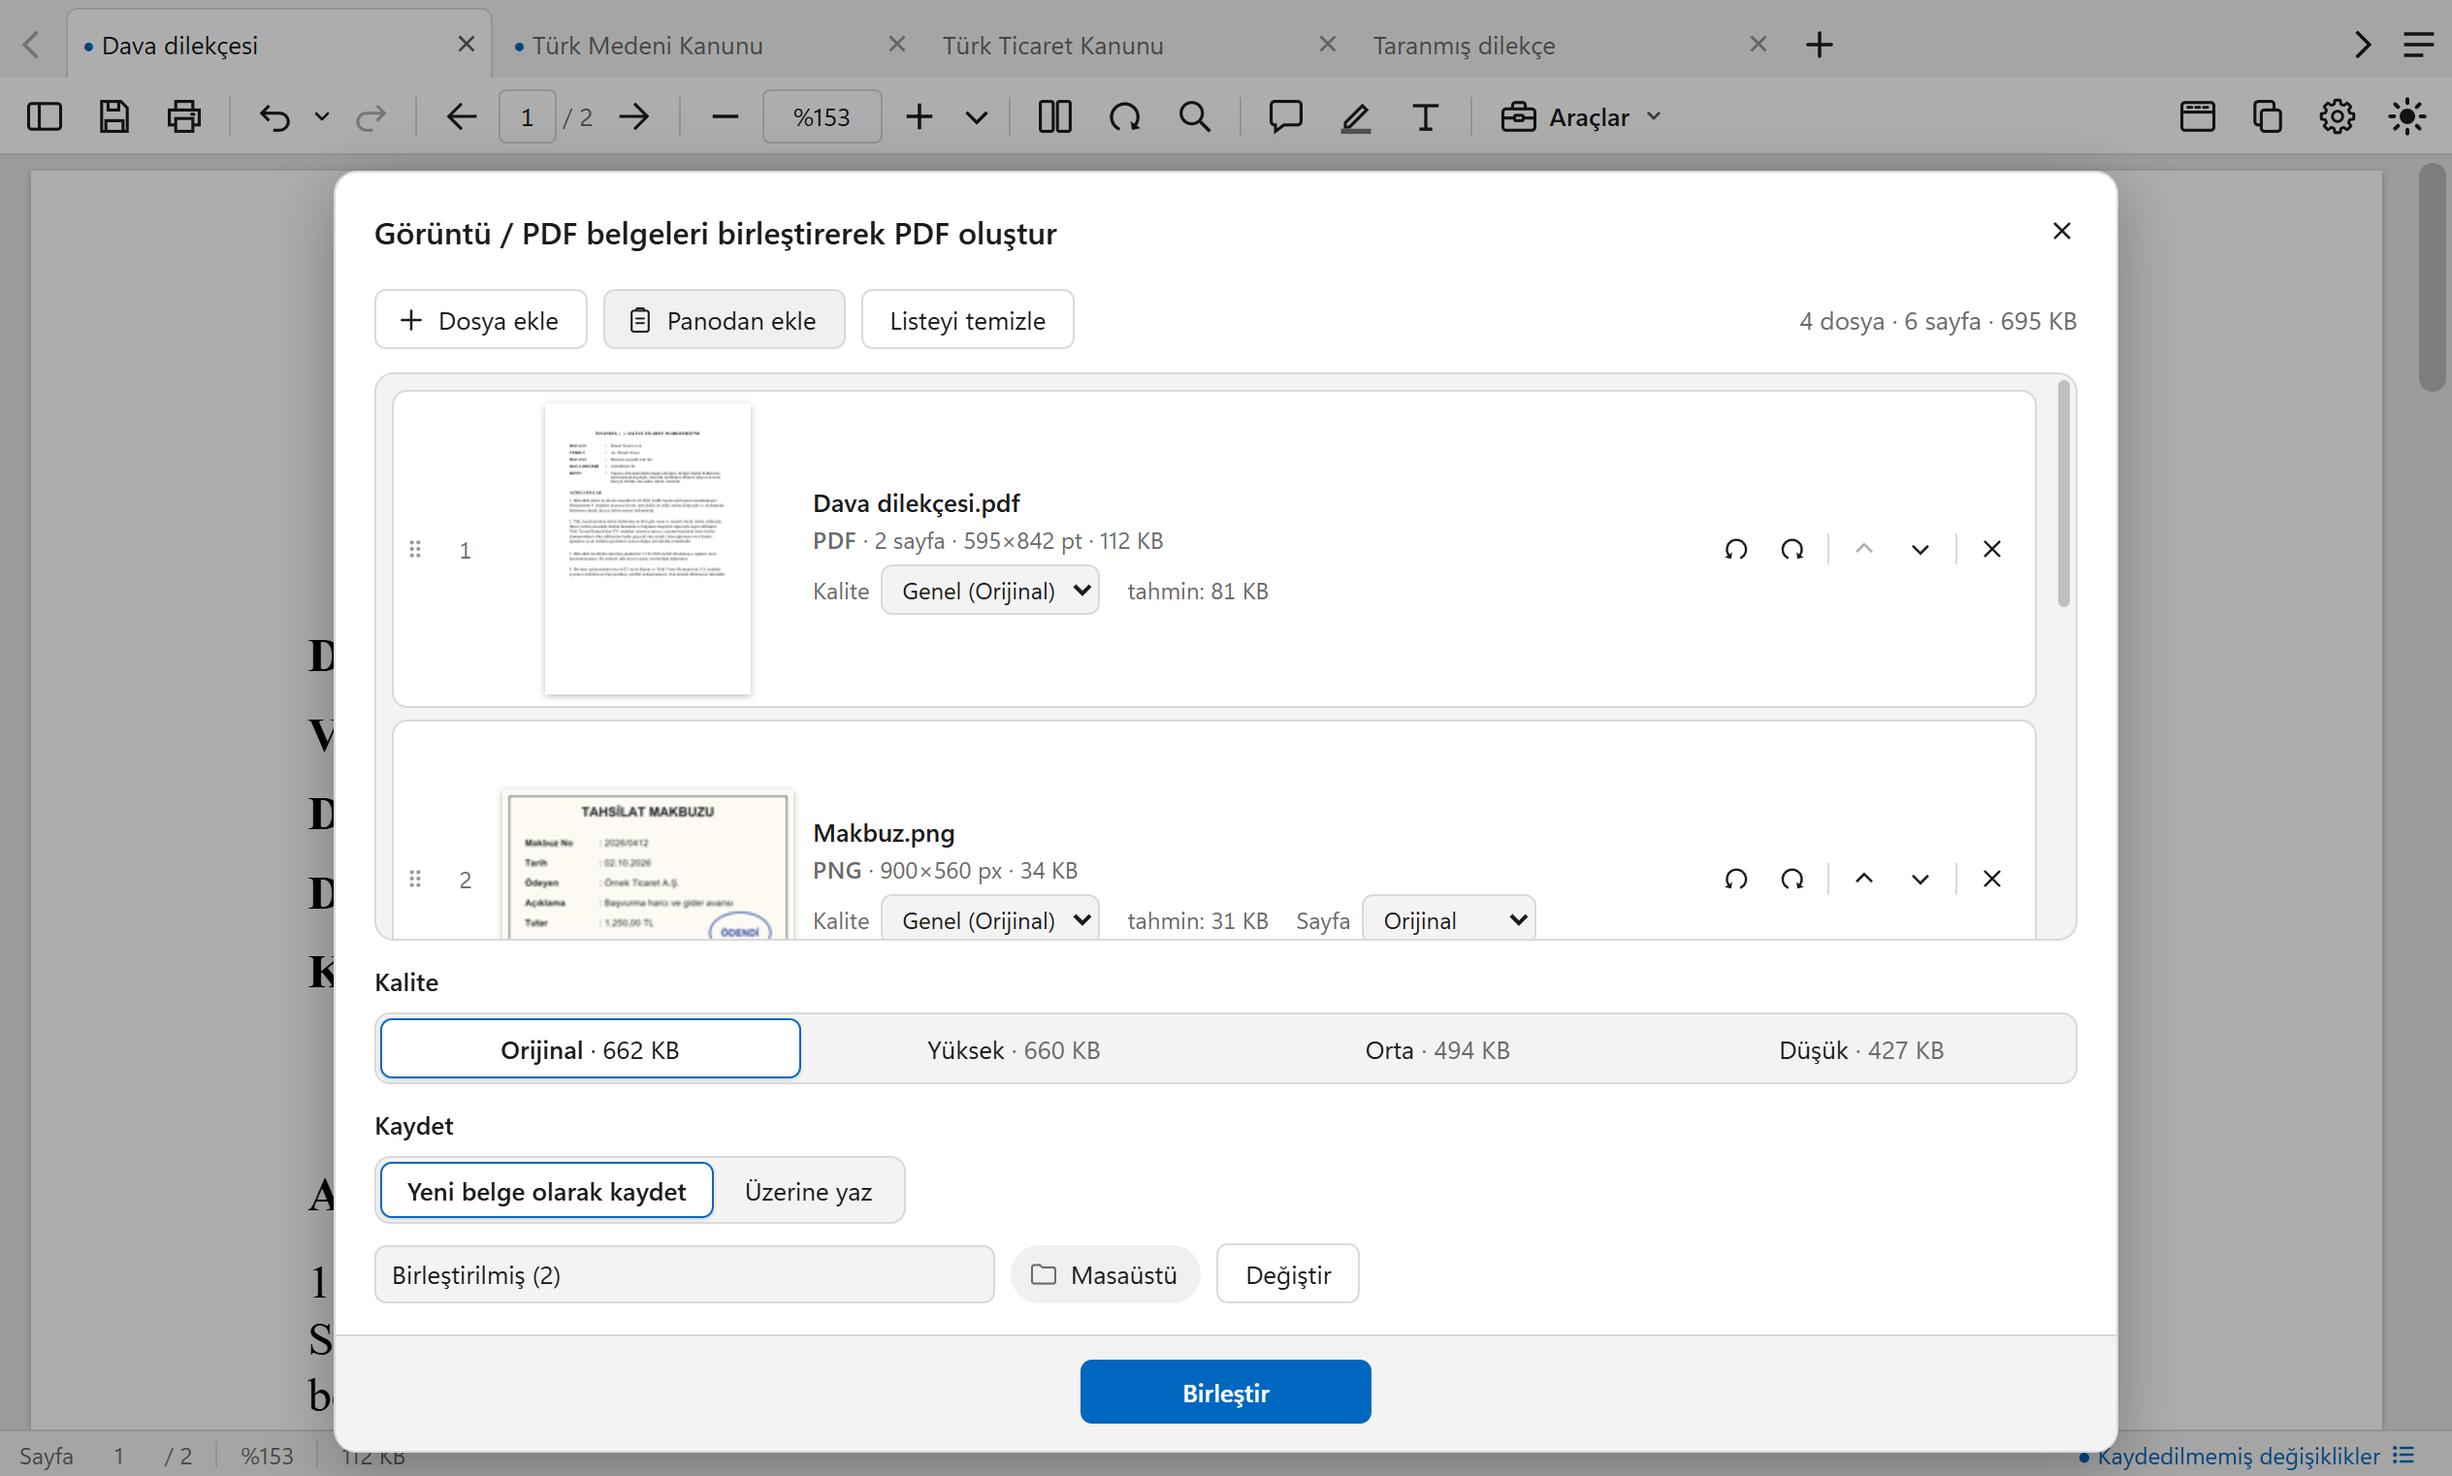
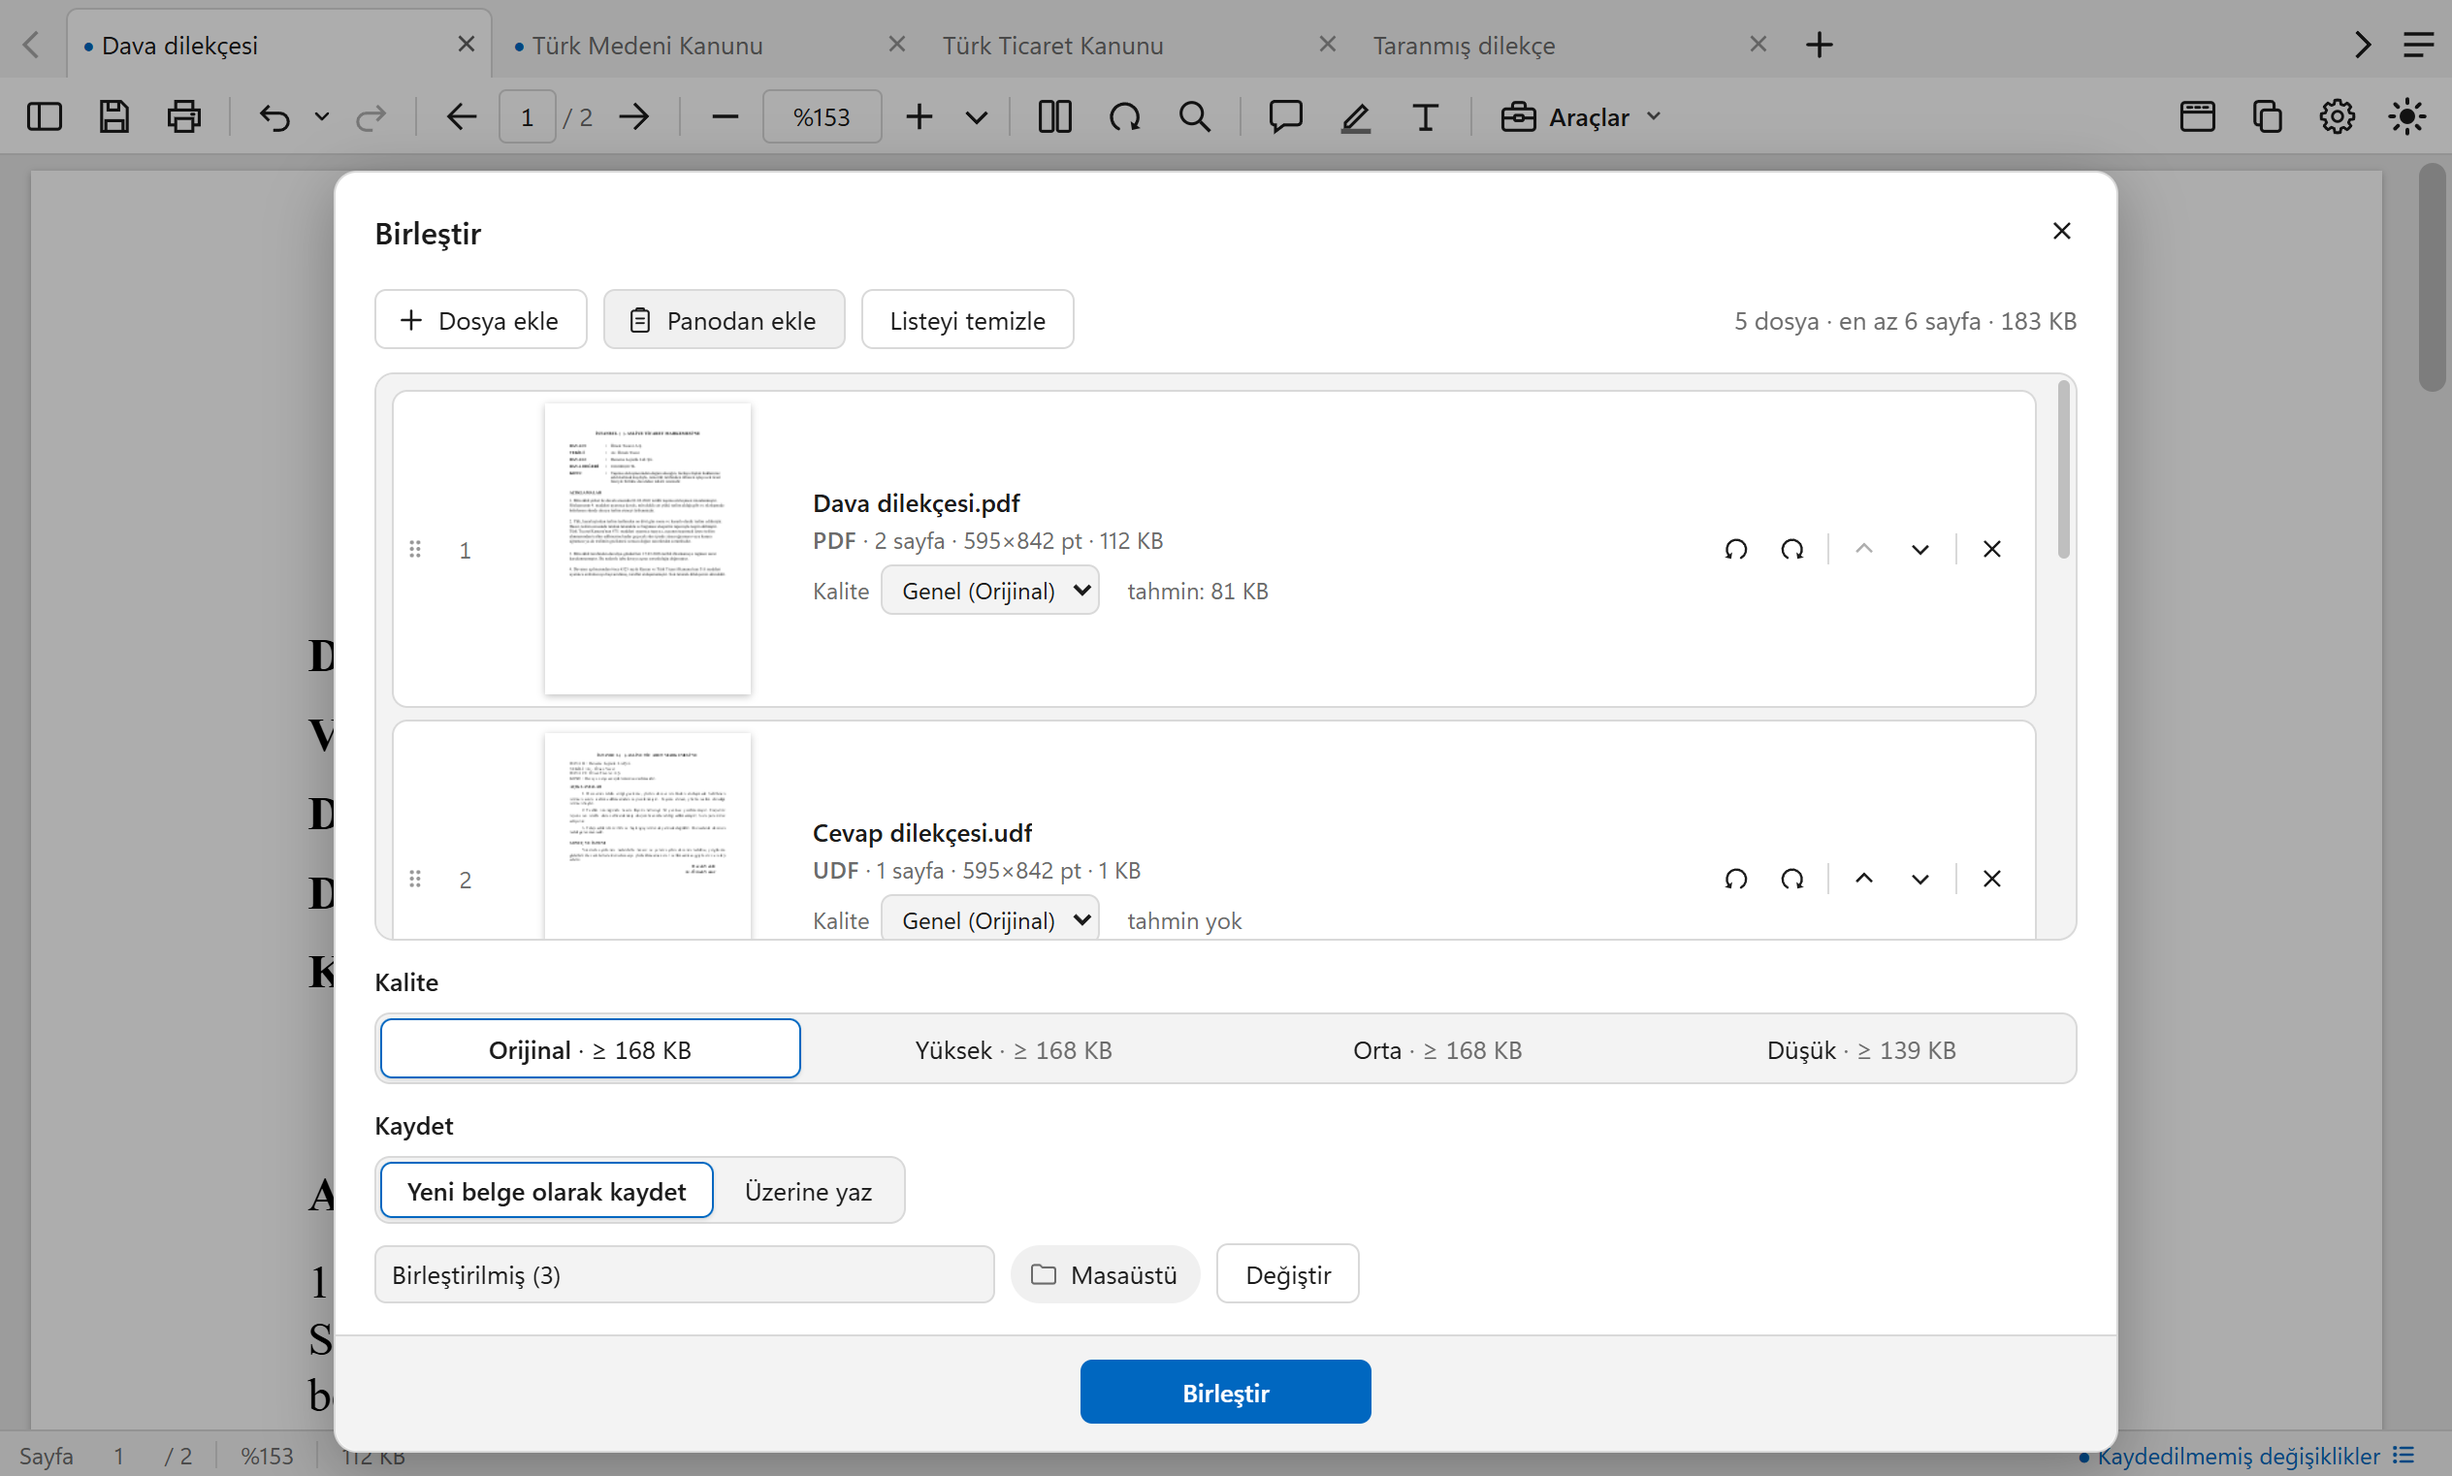
0.2.7: README ekran görüntüleri yeni araç adlarıyla yenilendi
Adları değişen araçların göründüğü görüntüler yeniden çekildi: açılış
ekranı (açık ve koyu), Araçlar penceresi, Birleştir (açık ve koyu),
Format Değiştir, yazdırma penceresi ve Kısayollar. Birleştir'in
görüntüsünde artık UDF de var (listede UDF, PNG, Word ve TIFF); Format
Değiştir'de JPG hedefi ve kalite notu görünüyor, yazdırma penceresinde
Yazdır ve Vazgeç eşit. Görüntüler kurgusal belgelerle, iki kat keskin
çekildi; görüntü betiğinin Birleştir listesi buna göre değişti.

diff --git a/PLAN.md b/PLAN.md
@@ -3147,6 +3147,12 @@ Her bulgu önce yeniden üretildi ya da kod izlendi; gerçekse önce düşen tes
 #### 0.2.7: belgeler
 - [x] Sürüm 0.2.7 (package.json, package-lock.json); CHANGELOG; docs/DOGRULAMA.md 42; README: giriş, Öne çıkanlar, Açılış ekranı, Sekmeler ve
   pencereler, Araçlar (Birleştir), Format Değiştir (görüntü → PDF, PDF → JPG, İdeal / Düşük, "zaten var" sorusu, gereksinimler); ekran görüntüleri.
+- [x] **Ekran görüntüleri** (`README_OLCEK=2`, temiz veri klasörü, kurgusal yazar adı, belgeler `C:\Users\Public\Documents\PDEfe Örnek`'te, iş
+  bitince silindi; hepsine tek tek bakıldı): açılış ekranı (açık, koyu), Araçlar, Birleştir (açık, koyu), Format Değiştir (ilk satırın altında
+  kalite notu, hedeflerde JPG), Yazdır (eşit düğmeler), Kısayollar (1280 × 900; bölüm başlığı "Birleştir"). `test/readme_goruntuleri.mjs`'te
+  Birleştir'in listesi artık UDF, PNG, Word ve TIFF (`BIRLESTIRILECEK`; UDF ikinci satırda, küçük resmi UYAP Doküman Editörü'yle; özet "en az 6
+  sayfa", kalite düğmelerinde "≥"). Bilinen: Birleştir'de önerilen ad "Birleştirilmiş (3)" (görüntünün çekildiği bilgisayarın Masaüstü'nde aynı
+  adlı dosyalar var; 0.2.6'da "(2)").
 
 #### 0.2.7: sınama özeti
 - [x] Python (çekirdek): donustur_testi 214/214 (akış dâhil), udf_donusum_testi 132/132, word_donusum_testi 32/32 (`PDEFE_WORD_YOK=1`), araclar_testi
